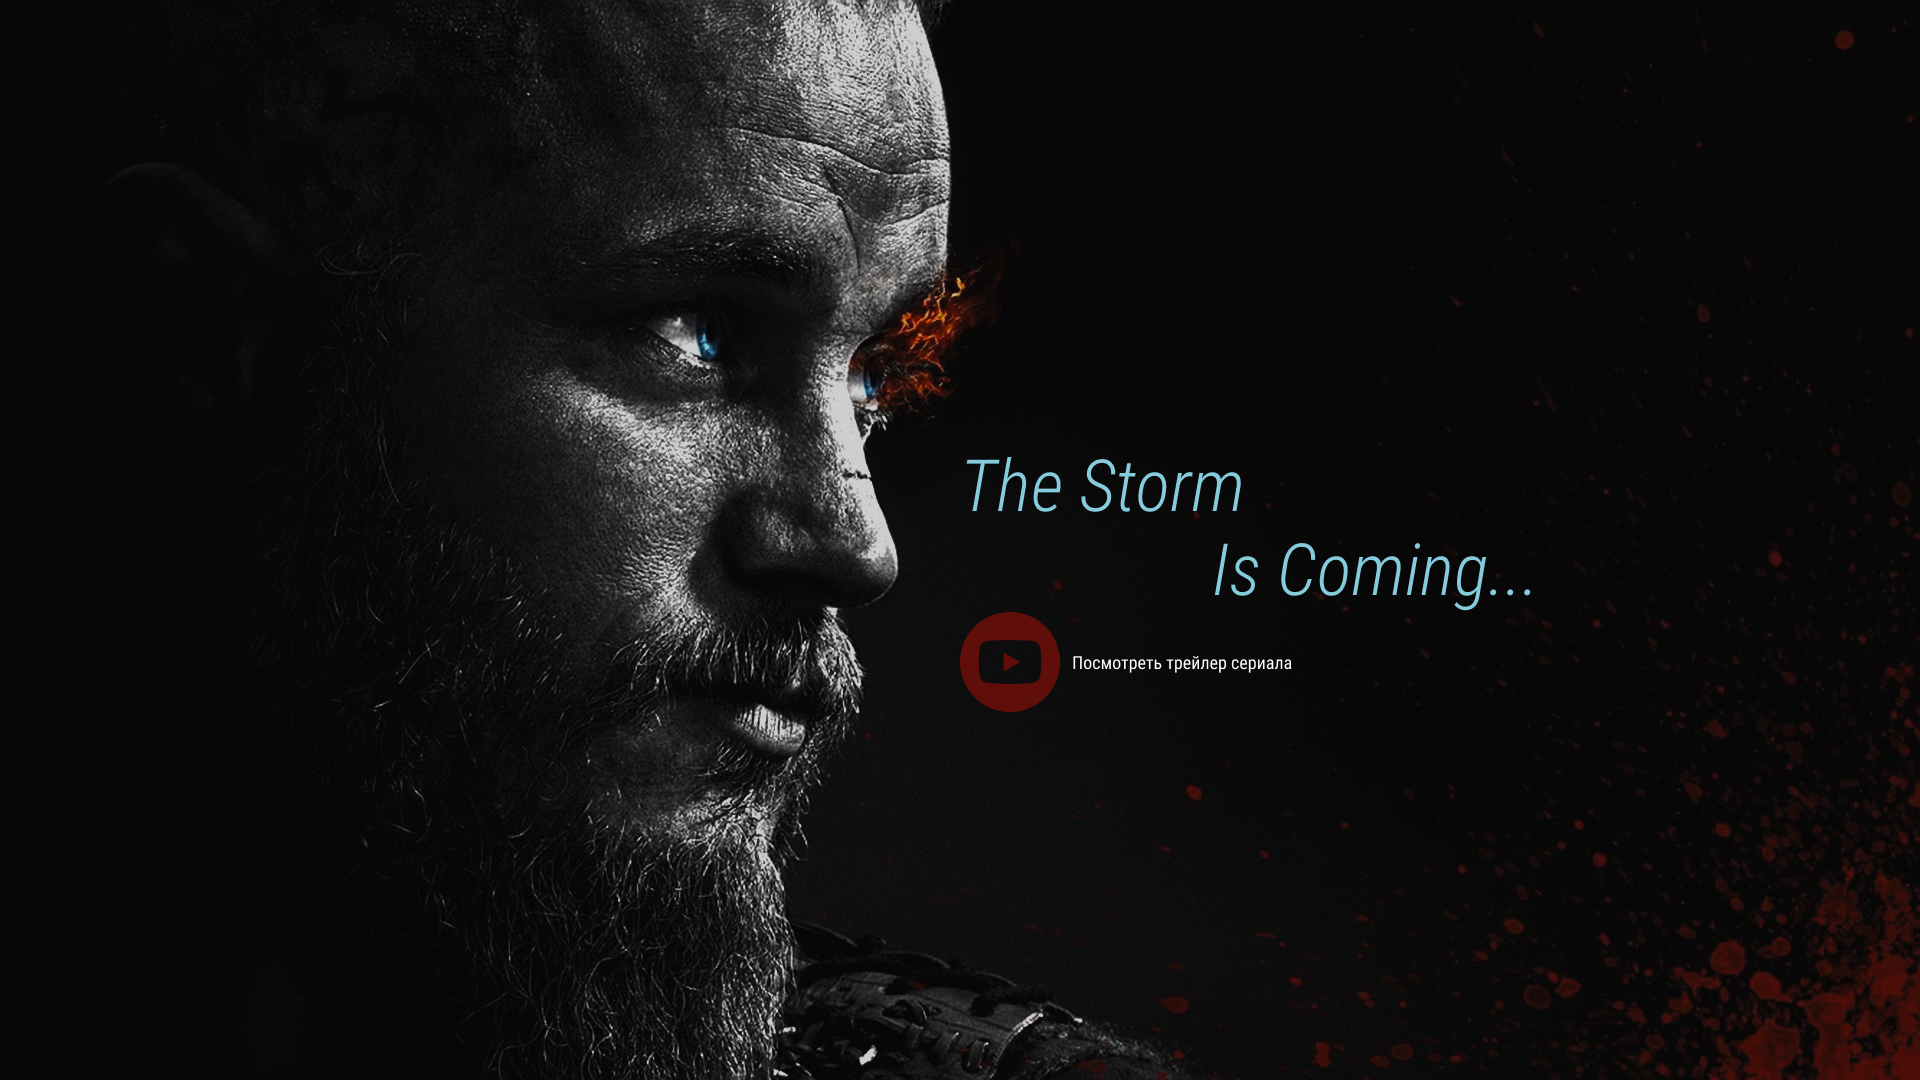
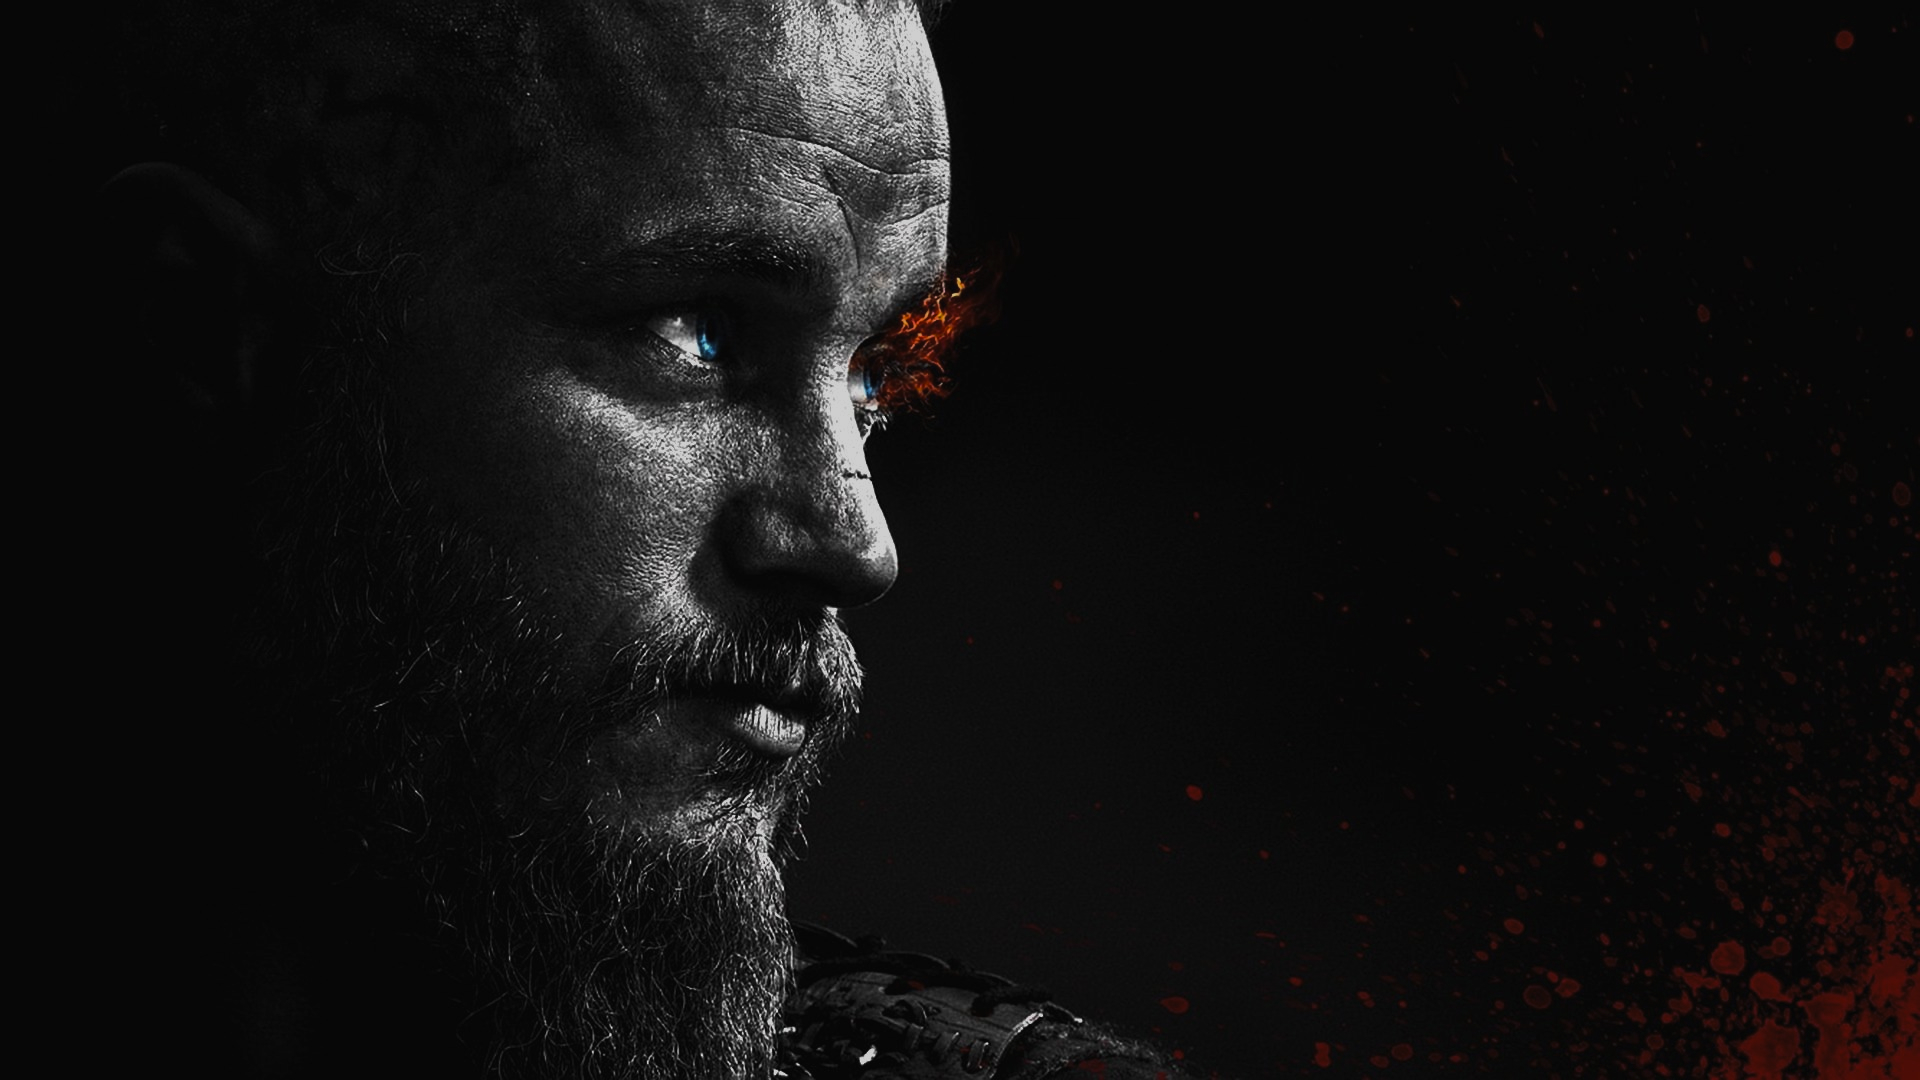
commit 3

Changed region(s): [[0.5, 0.55, 0.6562, 0.6722], [0.5, 0.4278, 0.6562, 0.4889], [0.625, 0.4889, 0.7812, 0.55]]

diff --git a/index.html b/index.html
@@ -45,6 +45,66 @@
       </div>
     </header>
 
+    <section class="about section-page">
+      <div class="container">
+        <h3 class="title">О сериале</h3>
+        <div class="about__inner">
+          <ul class="about__info">
+            <li class="about__info-item">
+              Жанр
+              <span>Историческая драма</span>
+            </li>
+            <li class="about__info-item">
+              Сезонов
+              <span>6</span>
+            </li>
+            <li class="about__info-item">
+              Длительность серии
+              <span>45 минут</span>
+            </li>
+            <li class="about__info-item">
+              На экранах
+              <span>С 3 марта 2013 по сей день</span>
+            </li>
+          </ul>
+          <div class="about__text">
+            <p>
+              Викинги – шикарный исторический сериал, один из лучших в своем
+              жанре, шоу может похвастаться огромной фан-базой, а также тем, что
+              пробудил интерес к истории и возродил моду на викингов.
+            </p>
+            <p>
+              «Викинги» созданы по заказу канала американского канала History,
+              однако работали над ним канадцы и ирландцы. Сериал поражает
+              масштабными сценами сражений, добротным и глубоким сценарием, а
+              также максимальным вниманием к исторической эпохи. Авторы сериала
+              потратили кучу времени и денег (бюджет первого сезона - $40 млн,
+              дальше суммы возросли) на то, чтобы викинги и их современники
+              выглядели в шоу так, какими они был в свое время – VIII – IX веках
+              нашей эры. С другой стороны – отсутствие точных исторических
+              фактов и (полу)легендарность многих событий позволили авторам
+              сериала вольную трактовку многих событий.
+            </p>
+          </div>
+        </div>
+      </div>
+    </section>
+
+    <section class="video">
+      <div class="container">
+        <h3 class="video__text">
+          <span>The Storm</span>
+          Is coming...
+        </h3>
+        <a
+          class="video__btn"
+          data-fancybox
+          href="https://www.youtube.com/watch?v=9GgxinPwAGc"
+          >Посмотреть трейлер сериала</a
+        >
+      </div>
+    </section>
+
     <script src="https://ajax.googleapis.com/ajax/libs/jquery/3.4.1/jquery.min.js"></script>
     <script src="js/slick.min.js"></script>
     <script src="js/jquery.fancybox.min.js"></script>

diff --git a/css/style.css b/css/style.css
@@ -16,6 +16,28 @@ a {
   color: inherit;
 }
 
+ul {
+  list-style: none;
+}
+
+.container {
+  max-width: 1220px;
+  padding: 0 10px;
+  margin: 0 auto;
+}
+
+.section-page {
+  padding: 100px 0;
+}
+
+.title {
+  text-align: center;
+  margin-bottom: 100px;
+  font-size: 36px;
+  line-height: 42px;
+  font-weight: 400;
+}
+
 /* ------header------ */
 
 .header {
@@ -63,4 +85,71 @@ a {
 
 .logo__img {
   padding-top: 178px;
+}
+
+/* ------about------ */
+
+.about__inner {
+  display: flex;
+}
+
+.about__info {
+  width: 375px;
+  margin-right: 50px;
+  flex: none;
+}
+
+.about__info-item {
+  margin-bottom: 25px;
+  color: #e5e5e5;
+}
+
+.about__info-item span {
+  display: block;
+}
+
+.about__text p {
+  margin-bottom: 25px;
+}
+
+/* ------video------ */
+
+.video {
+  background-image: url("../images/video-bg.jpg");
+  height: 100vh;
+  background-size: cover;
+  background-position: center center;
+  background-repeat: no-repeat;
+  text-align: right;
+}
+
+.video__text {
+  font-style: italic;
+  font-weight: 300;
+  font-size: 72px;
+  line-height: 84px;
+  color: #85ccdc;
+  padding-top: 344px;
+  margin-bottom: 40px;
+}
+
+.video__text span {
+  display: block;
+  padding-right: 285px;
+}
+
+.video__btn {
+  padding-left: 112px;
+  position: relative;
+  margin-right: 230px;
+}
+
+.video__btn::before {
+  content: "";
+  position: absolute;
+  width: 100px;
+  height: 100px;
+  left: 0;
+  top: -40px;
+  background-image: url("../images/youtube__btn.svg");
 }

diff --git a/js/main.js b/js/main.js
@@ -1,3 +1,8 @@
-$(function(){
-
+$(function () {
+  $("[data-fancybox]").fancybox({
+    youtube: {
+      controls: 0,
+      showinfo: 0,
+    },
+  });
 });
